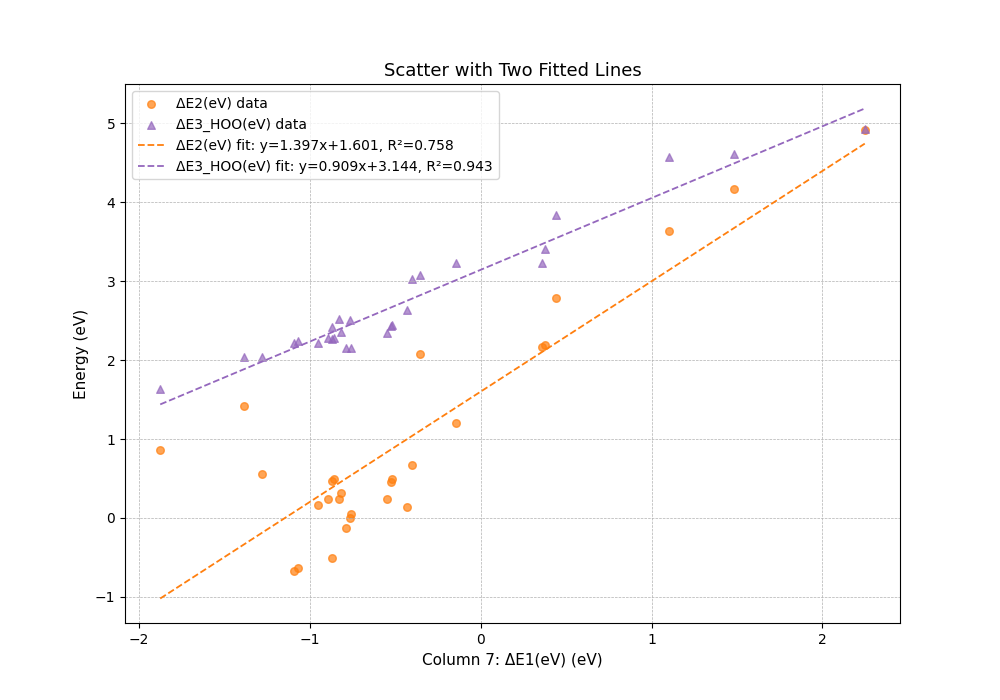
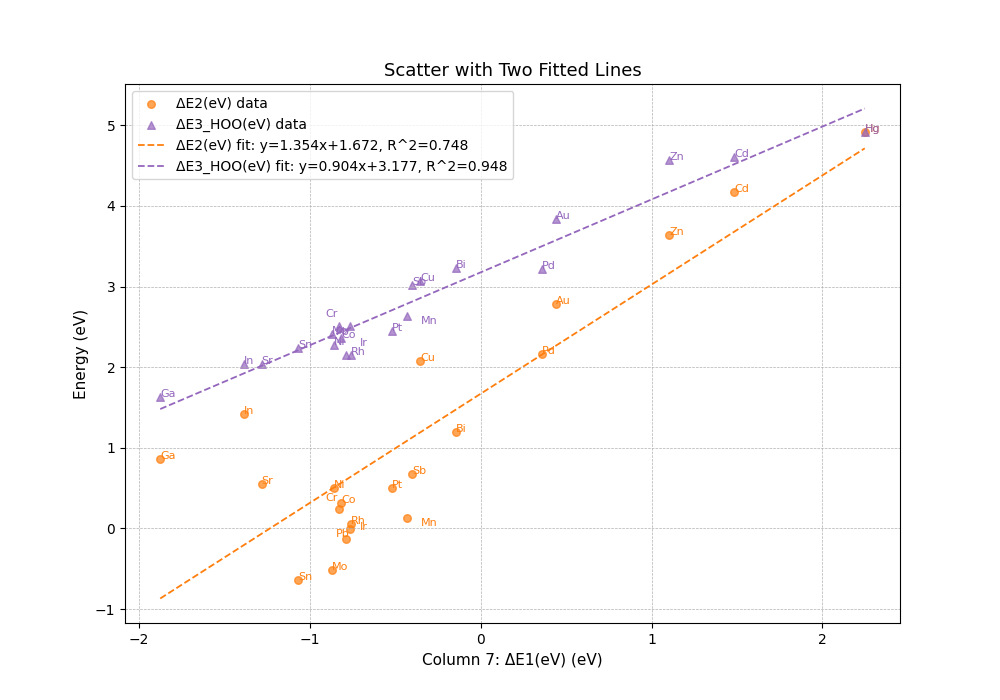
2

diff --git a/volcano/plot_32.py b/volcano/plot_32.py
@@ -6,6 +6,13 @@ import numpy as np
 import pandas as pd
 from plot_config import CONFIG
 
+# Fallback defaults if CONFIG is missing the keys.
+DEFAULT_ALLOWED_LABELS = [
+    "Ag", "Au", "Bi", "Cd", "Co",
+    "Cr_pv", "Cu", "Fe", "Ga", "Hg", "In_d", "Ir",
+    "Mn_pv", "Mo_sv", "Ni", "Pb", "Pd", "Pt", "Rh",
+    "Ru_pv", "Sb", "Sn_d", "Sr_sv", "Zn",
+]
 
 def load_with_dynamic_columns(file_path):
     # Build column names to capture extra fields beyond the header.
@@ -13,11 +20,11 @@ def load_with_dynamic_columns(file_path):
         lines = f.readlines()
     header_fields = lines[0].split()
     max_len = max(len(line.split()) for line in lines)
-    column_names = header_fields + [f'extra_{i}' for i in range(len(header_fields), max_len)]
+    column_names = header_fields + [f"extra_{i}" for i in range(len(header_fields), max_len)]
 
     df = pd.read_csv(
         file_path,
-        sep=r'\s+',
+        sep=r"\s+",
         header=0,
         names=column_names,
         engine='python',
@@ -28,10 +35,10 @@ def load_with_dynamic_columns(file_path):
 
 def plot_three_lines(file_path, output_dir=None):
     """
-    Reads data, filters, and plots scatter + two fitted lines (with R²) on one chart.
+    Reads data, filters, and plots scatter + two fitted lines (with R^2) on one chart.
     - x axis: column 7 (1-based) -> index 6
     - y axes: columns 8, 9 (1-based) -> indices 7, 8
-    - Lines: fit y8 vs x and y9 vs x; report R² for each.
+    - Lines: fit y8 vs x and y9 vs x; report R^2 for each.
     """
     df = load_with_dynamic_columns(file_path)
 
@@ -45,6 +52,17 @@ def plot_three_lines(file_path, output_dir=None):
     df = df[(df[filter_col] >= 2.0) & (df[filter_col] <= 4.0)].copy()
     if df.empty:
         print("No data remained after filtering; nothing to plot.")
+        return
+
+    # Keep only allowed elements; prefer specific variants when provided
+    allowed_labels = CONFIG.get("allowed_elements", DEFAULT_ALLOWED_LABELS)
+    allowed_bases = {label.split("_")[0] for label in allowed_labels}
+    preferred_variant = {label.split("_")[0]: label for label in allowed_labels if "_" in label}
+
+    df["__base"] = df["element"].astype(str).str.split("_").str[0]
+    df = df[df["__base"].isin(allowed_bases)]
+    if df.empty:
+        print("No allowed elements remained after base-name filtering; nothing to plot.")
         return
 
     x_col_idx, y1_idx, y2_idx = 6, 7, 8
@@ -65,11 +83,25 @@ def plot_three_lines(file_path, output_dir=None):
         print("No valid data to plot after cleaning.")
         return
 
+    # Deduplicate by base element, preferring the specified variant when provided
+    deduped_rows = []
+    for base in df["__base"].unique():
+        subset = df[df["__base"] == base]
+        preferred = preferred_variant.get(base)
+        if preferred and preferred in subset["element"].values:
+            chosen = subset[subset["element"] == preferred].iloc[0]
+        else:
+            chosen = subset.iloc[0]
+        deduped_rows.append(chosen)
+    df = pd.DataFrame(deduped_rows)
+    df["element"] = df["element"].astype(str).str.split("_").str[0]
+    df.drop(columns="__base", errors="ignore", inplace=True)
+
     x = df[x_col]
     y1 = df[y1_col]
     y2 = df[y2_col]
 
-    # Fit lines and compute R²
+    # Fit lines and compute R^2
     def fit_line_and_r2(x_vals, y_vals):
         m, b = np.polyfit(x_vals, y_vals, 1)
         y_pred = m * x_vals + b
@@ -91,20 +123,55 @@ def plot_three_lines(file_path, output_dir=None):
     plt.figure(figsize=cfg.get("figsize", (10, 7)))
     scatter_alpha = cfg.get("scatter_alpha", 0.7)
     scatter_size = cfg.get("scatter_size", 30)
-    plt.scatter(x, y1, alpha=scatter_alpha, s=scatter_size, marker=markers.get("y1", "o"), color=colors["y1"], label=f'{y1_col} data')
-    plt.scatter(x, y2, alpha=scatter_alpha, s=scatter_size, marker=markers.get("y2", "^"), color=colors["y2"], label=f'{y2_col} data')
+    plt.scatter(x, y1, alpha=scatter_alpha, s=scatter_size, marker=markers.get("y1", "o"), color=colors["y1"], label=f"{y1_col} data")
+    plt.scatter(x, y2, alpha=scatter_alpha, s=scatter_size, marker=markers.get("y2", "^"), color=colors["y2"], label=f"{y2_col} data")
+
+    # Labels: follow volcano rules (base element name, optional offsets), plotted separately for the two series
+    grouped = df.assign(_base=df["element"].astype(str).str.split("_").str[0])
+    label_offsets = cfg.get("label_offsets", {})
+    annot_fs = cfg.get("annotation_fontsize", 8)
+
+    y1_labels = grouped.groupby("_base")[[x_col, y1_col]].mean().reset_index()
+    for _, row in y1_labels.iterrows():
+        label = row["_base"]
+        x_val = row[x_col]
+        y_val = row[y1_col]
+        dx, dy = label_offsets.get(label, (0, 0))
+        plt.annotate(
+            label,
+            (x_val, y_val),
+            textcoords="offset points",
+            xytext=(dx, dy),
+            fontsize=annot_fs,
+            color=colors.get("y1"),
+        )
+
+    y2_labels = grouped.groupby("_base")[[x_col, y2_col]].mean().reset_index()
+    for _, row in y2_labels.iterrows():
+        label = row["_base"]
+        x_val = row[x_col]
+        y_val = row[y2_col]
+        dx, dy = label_offsets.get(label, (0, 0))
+        plt.annotate(
+            label,
+            (x_val, y_val),
+            textcoords="offset points",
+            xytext=(dx, dy),
+            fontsize=annot_fs,
+            color=colors.get("y2"),
+        )
 
     line_style = cfg.get("line_style", "--")
     line_width = cfg.get("line_width", 1.3)
     plt.plot(x_range, m1 * x_range + b1, color=colors["y1"], linestyle=line_style, linewidth=line_width,
-             label=f'{y1_col} fit: y={m1:.3f}x+{b1:.3f}, R²={r2_1:.3f}')
+             label=f"{y1_col} fit: y={m1:.3f}x+{b1:.3f}, R^2={r2_1:.3f}")
     plt.plot(x_range, m2 * x_range + b2, color=colors["y2"], linestyle=line_style, linewidth=line_width,
-             label=f'{y2_col} fit: y={m2:.3f}x+{b2:.3f}, R²={r2_2:.3f}')
+             label=f"{y2_col} fit: y={m2:.3f}x+{b2:.3f}, R^2={r2_2:.3f}")
 
     label_fs = cfg.get("axes_label_fontsize", None)
     title_fs = cfg.get("title_fontsize", None)
     legend_fs = cfg.get("legend_fontsize", None)
-    plt.xlabel(f'Column 7: {x_col} (eV)', fontsize=label_fs)
+    plt.xlabel(f"Column 7: {x_col} (eV)", fontsize=label_fs)
     plt.ylabel(cfg.get("ylabel", "Energy (eV)"), fontsize=label_fs)
     plt.title(cfg.get("title", "Scatter with Two Fitted Lines"), fontsize=title_fs)
     grid_cfg = cfg.get("grid", {"linestyle": "--", "linewidth": 0.5, "which": "both"})
@@ -118,7 +185,7 @@ def plot_three_lines(file_path, output_dir=None):
         plt.legend()
     plt.legend()
 
-    target_dir = Path(output_dir) if output_dir else Path(".")
+    target_dir = Path(output_dir) if output_dir else Path('.')
     os.makedirs(target_dir, exist_ok=True)
     out_path = target_dir / "plot_32.png"
     plt.savefig(out_path)
@@ -126,5 +193,5 @@ def plot_three_lines(file_path, output_dir=None):
 
 
 if __name__ == "__main__":
-    DATA_FILE = 'c:\\Users\\yingkaiwu\\Desktop\\single-atom\\volcano\\pbe-d3.dat'
+    DATA_FILE = r'c:\Users\yingkaiwu\Desktop\single-atom\volcano\pbe-d3-spin.dat'
     plot_three_lines(DATA_FILE)

diff --git a/volcano/plot_config.py b/volcano/plot_config.py
@@ -1,4 +1,11 @@
 CONFIG = {
+    # Elements allowed for plotting; labels use the base name (suffixes are for selection preference only).
+    "allowed_elements": [
+        "Ag", "Au", "Bi", "Cd", "Co",
+        "Cr_pv", "Cu", "Fe", "Ga", "Hg", "In_d", "Ir",
+        "Mn_pv", "Mo_sv", "Ni", "Pb", "Pd", "Pt", "Rh",
+        "Ru_pv", "Sb", "Sn_d", "Sr_sv", "Zn",
+    ],
     "volcano": {
         "figsize": (10, 7),
         "scatter_alpha": 0.7,
@@ -52,5 +59,12 @@ CONFIG = {
         "axes_label_fontsize": 11,
         "title_fontsize": 13,
         "legend_fontsize": 10,
+        "annotation_fontsize": 8,
+        "label_offsets": {
+            "Ir": (10, 6),
+            "Cr": (-10, 6),
+            "Mn": (10, -6),
+            "Pb": (-10, -6),
+        },
     },
 }
